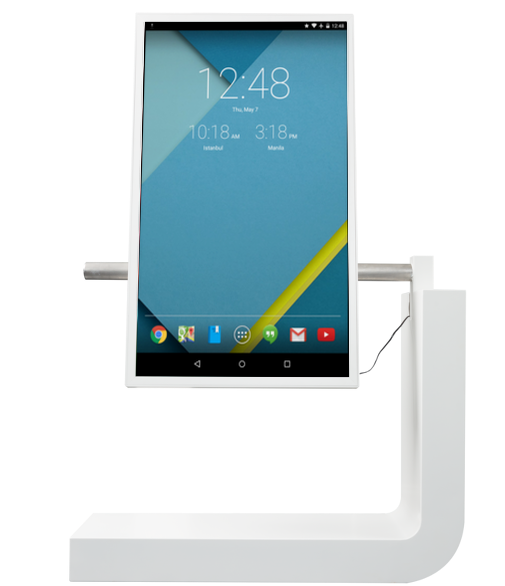
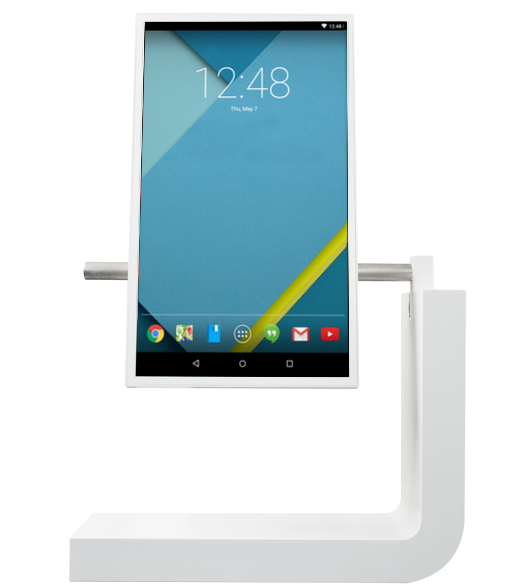
make header image in center larger, fix border

diff --git a/_includes/page.html b/_includes/page.html
@@ -324,9 +324,9 @@
 <section id="home" class="ui page one column grid stackable">
   <div class="column" style="margin-top: 100px !important; text-align: center;">
     <div class="ui three column grid stackable">
-        <div class="column">  <img src="{{site.url}}/images/novatouch_top_2_1.png" width="100%"></div>
-        <div class="column">  <img src="{{site.url}}/images/novatouch_top_2_2.png" width="100%"></div>
-        <div class="column">  <img src="{{site.url}}/images/novatouch_top_2_3.png" width="100%"></div>
+        <div class="four wide column">  <img src="{{site.url}}/images/novatouch_top_2_1.png" width="90%" style="margin-top: 135px;"></div>
+        <div class="eight wide column">  <img src="{{site.url}}/images/novatouch_top_2_2.png" width="80%"></div>
+        <div class="four wide column">  <img src="{{site.url}}/images/novatouch_top_2_3.png" width="90%" style="margin-top: 135px;"></div>
     </div>
     <br><br>
     <div class="ui huge inverted blue button get-quote">{% if page.lang == 'de' %}Preis für Miete oder Kauf anfragen{% else %}Get a Quote for Rental or Sale{% endif %}</div>
@@ -334,7 +334,7 @@
 
   <div class="ui segment basic features">
     <div class="ui three column grid stackable">
-      <div class="column">
+      <div class="four wide column">
         <div class="ui icon header inverted">
             <h2 class="ui header number">
               1
@@ -345,7 +345,7 @@
           </div>
         </div>
       </div>
-      <div class="column">
+      <div class="eight wide column" style="text-align: center;">
         <div class="ui icon header inverted">
             <h2 class="ui header number">
               2
@@ -356,7 +356,7 @@
           </div>
         </div>
       </div>
-      <div class="column">
+      <div class="four wide column">
         <div class="ui icon header inverted">
             <h2 class="ui header number">
               3

diff --git a/js/main.js b/js/main.js
@@ -37,7 +37,9 @@ $(document).ready(function() {
 
   $(window).scroll(function () {
     $('#main-menu').css('background', (((document.documentElement && document.documentElement.scrollTop) ||
-                document.body.scrollTop > 94) && ($(window).width() >= 320)) ? '#3293C7' : 'transparent');
+                document.body.scrollTop > 94) && ($(window).width() >= 320)) ? '#3293C7' : 'transparent')
+                .css('border-width', (((document.documentElement && document.documentElement.scrollTop) ||
+                            document.body.scrollTop > 94) && ($(window).width() >= 320)) ? '0 0 2px' : '0');
   });
 
   // Submit the form with an ajax/jsonp request.

diff --git a/css/page.css b/css/page.css
@@ -45,6 +45,10 @@
   line-height: 36px;
 }
 
+#main-menu {
+    border-width: 0;
+}
+
 /* Section: home */
 #home {
   height: 100%;
